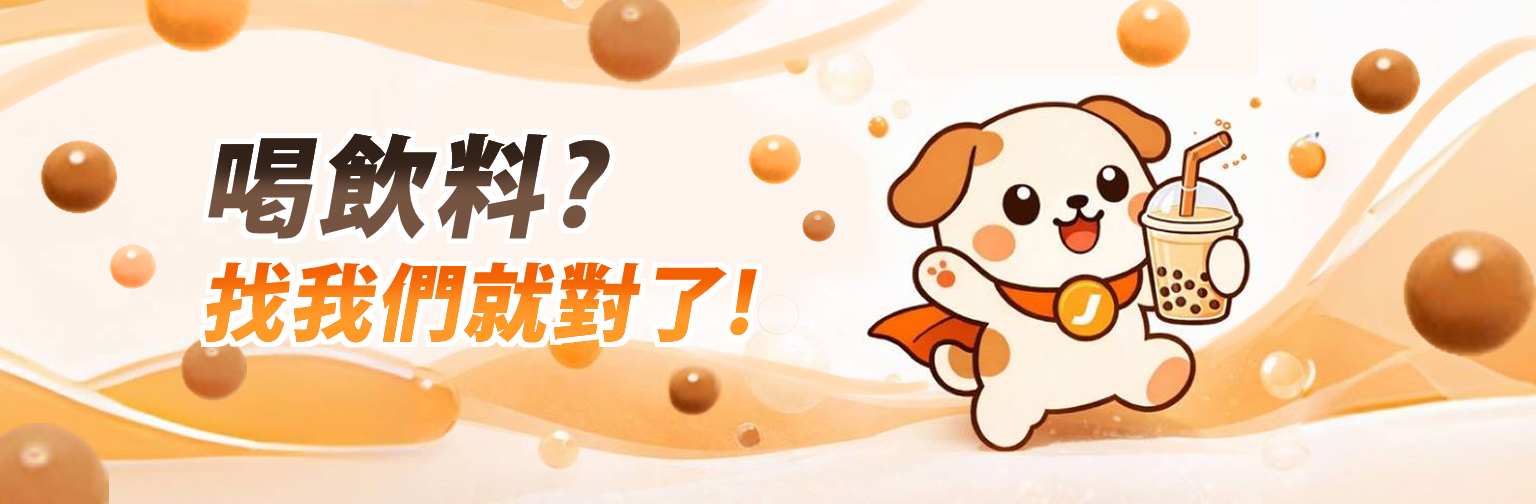
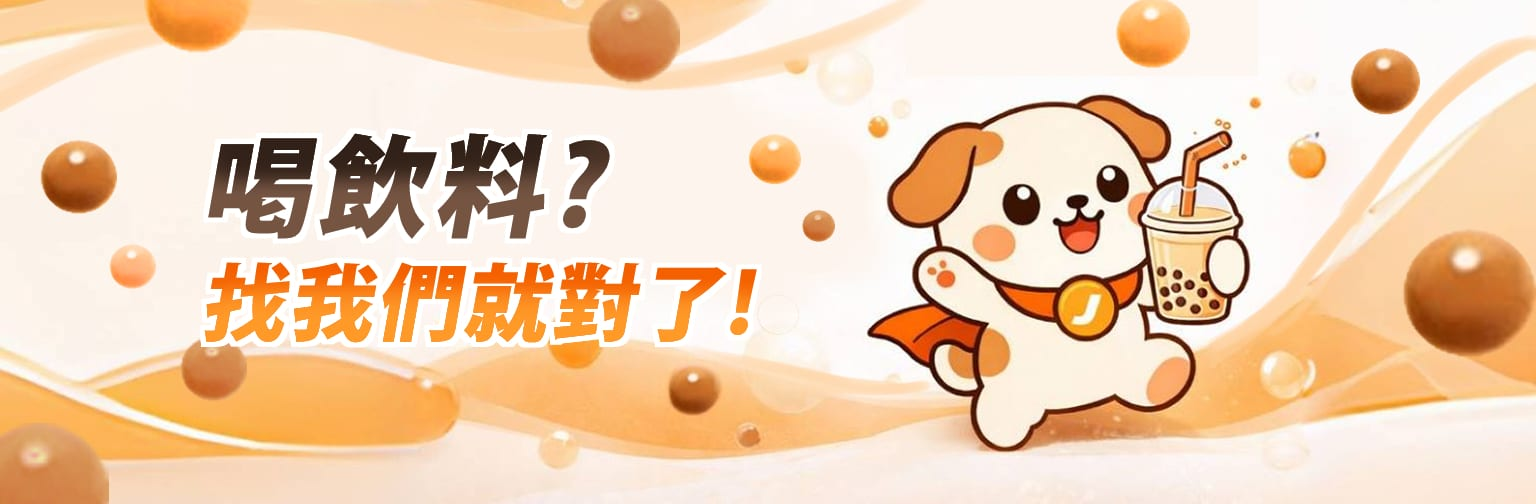
fix: 實際操作前端跑通三條主線，修掉六個只有點下去才會出現的問題
用 Playwright 操作真實 UI（點按鈕、選規格、兩個瀏覽器分飾團長與團員）
跑通點餐、轉盤抽券、揪團到結帳三條流程，過程中發現：

後端（open-in-view=false 的第八、九次）
  OrderService.getOrderByIdAndUserId 用 findById 取單，Controller 的
  buildOrderResponse 在交易外讀 store.getStoreName() → 下單成功後跳到的
  訂單完成頁固定 500。改用 @EntityGraph 的 findWithStoreAndInitiatorById。

  GroupOrderService.getGroupOrderByOrderId 把 entity 回給 Controller，
  由 Controller 在交易外才 convertToDTO → 揪團的訂單完成頁固定 500。
  新增 getGroupOrderDTOByOrderId，轉換留在交易內。

前端
  cart.js 在 IIFE 結尾就啟動同步，但 store.html / checkout.html 是先載
  cart.js 才載 nav-auth.js，第一次同步取不到 NavAuth.getApiUrl，退回相對
  路徑打到靜態伺服器（實測 404 http://127.0.0.1:5500/api/cart）。改為延到
  DOMContentLoaded，並修正兩頁的 script 順序。

  checkout.html 兩處 fetch('/api/...') 是相對路徑且沒帶 token，姓名電話與
  門市設定永遠讀不到；端點也錯（GET 是 /api/users/{id}，/profile 只有 PUT）。
  改走 NavAuth.fetchAPI。

  checkout.html 的 lastLocalManualActionTime 從未宣告，cartUpdated 的讀取
  先於任何賦值 → 每次背景同步都 ReferenceError，處理器整段中斷。

  cart_details.html 的 QRCode 在 try 內，外部 CDN 載不到就 throw，導致
  「建立揪團失敗」的錯誤提示——但揪團其實已經建好了。改為可選降級。

  store.html 的飲品圖 fallback 仍外連 via.placeholder.com，改用專案內建 SVG。

資產
  首頁三張輪播橫幅同解析度重壓（mozjpeg q82）：2,237 KB → 334 KB（-85%）。

驗證：三條 UI 流程全通、API 端對端 67 項全過、45 個 GET 端點 0 個 5xx、
20 個測試全過。

Claude-Session: https://claude.ai/code/session_01NowCPswupSUqPGgcQ77haN

diff --git a/frontend/Customer/checkout.html b/frontend/Customer/checkout.html
@@ -743,6 +743,14 @@
     </div>
 
     <script>
+        // 「同步鎖」的時間戳：手動改動購物車後 2 秒內，忽略背景同步推來的狀態，
+        // 免得伺服器的舊資料把剛改好的內容蓋掉。
+        // ⚠ 一定要在這裡宣告並給初始值。原本只有幾處賦值、沒有宣告，
+        // 而 cartUpdated 事件的讀取會先發生（使用者還沒手動改過任何品項時），
+        // 造成 ReferenceError: lastLocalManualActionTime is not defined，
+        // 整個事件處理器中斷、購物車不會重繪。
+        let lastLocalManualActionTime = 0;
+
         // Update saveEditBtn after DOM loads
         document.addEventListener('DOMContentLoaded', () => {
             const saveEditBtn = document.getElementById('save-edit-btn');
@@ -867,8 +875,9 @@
 
     <!-- Core Scripts -->
     <script src="js/cartHash.js"></script>
-    <script src="js/cart.js"></script>
+    <!-- nav-auth.js 要在 cart.js 之前：cart.js 的 requestApi 依賴 NavAuth.getApiUrl 組 API 位址 -->
     <script src="js/nav-auth.js"></script>
+    <script src="js/cart.js"></script>
     <script>
         // Global Variables
         let currentDeliveryMethod = 'delivery';
@@ -1683,8 +1692,12 @@
             try {
                 const userId = localStorage.getItem('JOIN_USER_ID');
                 if (userId) {
-                    fetch(`/api/users/${userId}/profile`)
-                        .then(r => r.ok ? r.json() : null)
+                    // ⚠ 兩個地方原本都寫錯：
+                    //  1. 用相對路徑 fetch('/api/...')，會打到靜態伺服器而不是 API
+                    //     （實測 404 http://127.0.0.1:5500/api/users/1/profile），姓名電話永遠讀不到。
+                    //  2. 端點也錯：GET 是 /api/users/{id}，/profile 只有 PUT。
+                    // NavAuth.fetchAPI 會一併處理 API base 與 Authorization header。
+                    NavAuth.fetchAPI(`/api/users/${userId}`)
                         .then(data => {
                             const user = data?.data || data || {};
                             const nicknameEl = document.getElementById('checkout-nickname');
@@ -1705,9 +1718,11 @@
 
             const storeIdForFetch = new URLSearchParams(window.location.search).get('id') || new URLSearchParams(window.location.search).get('storeId') || (initialCart.items[0]?.storeId);
             if (storeIdForFetch) {
-                fetch(`/api/stores/${storeIdForFetch}`)
-                    .then(r => r.ok ? r.json() : null)
-                    .then(store => {
+                // 同上：這裡原本也是相對路徑，門市設定永遠讀不到，
+                // currentStoreConfig 一直是 null，外送可用性只能用預設值判斷。
+                NavAuth.fetchAPI(`/api/stores/${storeIdForFetch}`)
+                    .then(resp => {
+                        const store = resp?.data || resp;
                         if (store) {
                             currentStoreConfig = store;
                             const nameEl = document.getElementById('checkout-store-name');

diff --git a/frontend/Customer/js/cart.js b/frontend/Customer/js/cart.js
@@ -536,9 +536,11 @@
             if (isLoggedIn()) {
                 const sid = toNumber(storeId, 0);
                 const url = sid ? `/api/cart?storeId=${sid}` : '/api/cart';
+                // 清空後不必再 syncFromServer：本地已經清乾淨，再拉一次只是多一趟請求，
+                // 而且下單成功後畫面會立刻跳到訂單完成頁，這趟請求必定被中斷，
+                // 於是每次下單都在 console 留下一則 "Failed to fetch" 的假錯誤。
                 void requestApi(url, { method: 'DELETE' })
-                    .then(() => syncFromServer({ silent: true }))
-                    .catch((error) => console.error('clearCart sync error:', error));
+                    .catch((error) => console.debug('clearCart: 伺服器端清空未完成（多半是跳頁中斷）', error));
             }
         },
 
@@ -623,5 +625,15 @@
         }
     });
 
-    Cart.startRealtimeSync();
+    // ⚠ 不要改回在載入當下就直接呼叫 startRealtimeSync()。
+    // requestApi() 需要 nav-auth.js 提供的 NavAuth.getApiUrl 才能組出正確的 API 位址；
+    // store.html / checkout.html 是先載 cart.js 再載 nav-auth.js，立即同步會因為 NavAuth
+    // 還不存在而退回相對路徑，變成打靜態伺服器（實測 404 http://127.0.0.1:5500/api/cart），
+    // 第一次同步必定失敗、購物車要等 3 秒後的輪詢才會補正。
+    // 延到 DOMContentLoaded，此時文件內的同步 script 都已執行完畢，與載入順序無關。
+    if (document.readyState === 'loading') {
+        document.addEventListener('DOMContentLoaded', () => Cart.startRealtimeSync());
+    } else {
+        Cart.startRealtimeSync();
+    }
 })();

diff --git a/frontend/Customer/store.html b/frontend/Customer/store.html
@@ -522,8 +522,9 @@
   </div>
 
   <!-- Common Utilities -->
-  <script src="js/cart.js"></script>
+  <!-- nav-auth.js 要在 cart.js 之前：cart.js 的 requestApi 依賴 NavAuth.getApiUrl 組 API 位址 -->
   <script src="js/nav-auth.js"></script>
+  <script src="js/cart.js"></script>
   <!-- Store Specific Logic -->
   <script>
     document.addEventListener('DOMContentLoaded', async () => {
@@ -986,7 +987,9 @@
 
         const imgUrl = (product.imageUrl || product.logoUrl) ?
           ((product.imageUrl || product.logoUrl).startsWith('http') ? (product.imageUrl || product.logoUrl) : '/images/' + (product.imageUrl || product.logoUrl)) :
-          'https://via.placeholder.com/400x300?text=' + product.name;
+          // 用專案內建的 SVG，不要外連圖床：離線或圖床擋掉時客製化視窗會開天窗，
+          // 其餘頁面的 Unsplash 連結先前已一併換成本地 SVG，這支是漏網的。
+          'images/drink-placeholder.svg';
         
         const optimizedModalImg = optimizeImageUrl(imgUrl, 600, 400);
         if (modalImg) {

diff --git a/frontend/Customer/cart_details.html b/frontend/Customer/cart_details.html
@@ -1056,7 +1056,16 @@
         linkInput.value = shareLink;
 
         qrcodeContainer.innerHTML = '';
-        new QRCode(qrcodeContainer, { text: shareLink, width: 180, height: 180 });
+        // QRCode 是外部 CDN 載入的，載不到時不能讓整個流程當掉：
+        // 這段在 handleStartGroup 的 try 裡面，一 throw 就會跳出「建立揪團失敗」，
+        // 但揪團其實已經在後端建好了——使用者被告知失敗、實際成功，最糟的一種錯誤訊息。
+        // 沒有 QR 也不影響分享，連結本身就夠用。
+        if (typeof QRCode !== 'undefined') {
+          new QRCode(qrcodeContainer, { text: shareLink, width: 180, height: 180 });
+        } else {
+          qrcodeContainer.innerHTML =
+            '<p class="text-xs text-gray-400 text-center px-4 py-8">QR Code 元件載入失敗，請直接複製上方連結分享</p>';
+        }
 
         copyBtn.onclick = () => {
           linkInput.select();

diff --git a/src/main/java/com/example/demo/repository/GroupOrderRepository.java b/src/main/java/com/example/demo/repository/GroupOrderRepository.java
@@ -55,6 +55,17 @@ public interface GroupOrderRepository extends JpaRepository<GroupOrder, Long> {
        @EntityGraph(attributePaths = {"initiator", "store", "store.brand"})
        Optional<GroupOrder> findByShareToken(String shareToken);
 
+       /**
+        * 取單並一併載入 store 與 initiator。
+        *
+        * ⚠ 用途是給「交易外還要讀這兩個關聯」的呼叫端（例如 OrderController.buildOrderResponse
+        * 會讀 store.getStoreName()／initiator.getName()）。open-in-view=false 之下，
+        * 單純的 findById 回來的是 proxy，交易一結束再讀就是 LazyInitializationException，
+        * 實測讓「下單完成頁」GET /api/orders/{id}/v2 固定 500。
+        */
+       @EntityGraph(attributePaths = {"store", "initiator"})
+       Optional<GroupOrder> findWithStoreAndInitiatorById(Long id);
+
         // 查詢特定類別的訂單 (如 SOLO)
        Optional<GroupOrder> findByInitiatorIdAndStoreIdAndTypeAndStatusIn(Long initiatorId, Long storeId,
                      String type, List<String> statuses);

diff --git a/src/main/java/com/example/demo/service/OrderService.java b/src/main/java/com/example/demo/service/OrderService.java
@@ -75,12 +75,14 @@ public class OrderService {
         return groupOrderRepository.findVisibleOrdersForUserByStatuses(userId, statuses, pageable);
     }
 
+    // 這兩支的回傳值會被 Controller 在交易外拿去讀 store／initiator，
+    // 所以一律走有 @EntityGraph 的查詢把關聯一起載入（見 repository 內的說明）。
     public GroupOrder getOrderById(Long orderId) {
-        return groupOrderRepository.findById(orderId).orElse(null);
+        return groupOrderRepository.findWithStoreAndInitiatorById(orderId).orElse(null);
     }
 
     public GroupOrder getOrderByIdAndUserId(Long orderId, Long userId) {
-        return groupOrderRepository.findById(orderId)
+        return groupOrderRepository.findWithStoreAndInitiatorById(orderId)
                 .filter(o -> o.getInitiator() != null && o.getInitiator().getId().equals(userId))
                 .orElse(null);
     }

diff --git a/src/main/java/com/example/demo/service/GroupOrderService.java b/src/main/java/com/example/demo/service/GroupOrderService.java
@@ -853,6 +853,19 @@ public class GroupOrderService {
     }
 
     /**
+     * 依訂單 ID 取揪團 DTO（訂單完成頁會打）。
+     *
+     * ⚠ 轉 DTO 一定要留在這個交易裡。原本是 Controller 拿 Optional&lt;GroupOrder&gt; 出去、
+     * 在交易外才呼叫 convertToDTO，而 convertToDTO 會讀 initiator／store，
+     * open-in-view=false 之下必定 LazyInitializationException——實測下單後的
+     * 訂單完成頁固定看到 500。
+     */
+    @org.springframework.transaction.annotation.Transactional(readOnly = true)
+    public Optional<GroupOrderDTO> getGroupOrderDTOByOrderId(Long realOrderId) {
+        return groupOrderRepository.findById(realOrderId).map(this::convertToDTO);
+    }
+
+    /**
      * 團員補款給團長。
      *
      * 修正說明：原本要求狀態為 CLOSED（系統從未設定此狀態），

diff --git a/src/main/java/com/example/demo/controller/GroupOrderController.java b/src/main/java/com/example/demo/controller/GroupOrderController.java
@@ -316,8 +316,9 @@ public class GroupOrderController {
     @Operation(summary = "依據訂單 ID 取得揪團詳情", description = "供訂單確認頁面使用。")
     @GetMapping("/api/group-orders/by-order/{orderId}")
     public Result getGroupByOrderId(@PathVariable Long orderId) {
-        return groupOrderService.getGroupOrderByOrderId(orderId)
-                .map(go -> Result.success(groupOrderService.convertToDTO(go)))
+        // 轉 DTO 必須在 service 的交易內完成，不可把 entity 帶出來再轉（見 service 內說明）
+        return groupOrderService.getGroupOrderDTOByOrderId(orderId)
+                .map(Result::success)
                 .orElse(Result.error("找不到對應的揪團資訊"));
     }
 

diff --git a/CLAUDE.md b/CLAUDE.md
@@ -230,9 +230,22 @@ SUBMITTED 進入 PREPARING。
    proxy 時 session 早已關閉，**必定 500**。這種加 `@Transactional` 沒用（序列化發生在交易之後），
    要在交易內就轉成純 Map。兩支都已改走 `StoreService.toMap()`。
 
+3. **Controller 拿 entity 出來自己組 Map** — `OrderController.buildOrderResponse` 讀
+   `order.getStore().getStoreName()`，而 Controller 不在交易內。這種要嘛讓查詢
+   `@EntityGraph` 把關聯一起載入（`findWithStoreAndInitiatorById`），要嘛整段移進 Service。
+4. **Service 回傳 entity、Controller 才轉 DTO** — `getGroupOrderByOrderId` 回
+   `Optional<GroupOrder>`，Controller 拿到後才呼叫 `convertToDTO`，此時交易早就結束。
+   已改成 `getGroupOrderDTOByOrderId`，轉換留在交易內。
+
 **不要從 Controller 直接回傳 JPA entity。** 除了這個問題，entity 還會把整個物件圖攤開來，
 且欄位一旦新增就自動外流（目前靠 `passwordHash` 上的 `@JsonProperty(WRITE_ONLY)` 擋著，
 那是最後一道防線，不該是唯一一道）。
+
+**同理，也不要把 entity 當成 Service 的回傳值再到外面轉換**——轉換寫在哪裡，
+就決定了它有沒有交易可用。
+
+> 這顆雷至今踩過九次，其中「下單完成頁」與「揪團成員清單」兩處是實際點過畫面才發現的：
+> 端點單獨 curl 會過（資料剛好沒有那個關聯），要照使用者的路徑走完整流程才會現形。
 
 這類錯誤**單元測試抓不到、要實際打端點才會現形**。改完動到序列化或關聯的程式碼後，
 跑一次涵蓋所有 GET 端點的普掃（起服務後逐一 curl，看有沒有 5xx 或 body `code=500`）比較實在。

diff --git a/README.md b/README.md
@@ -149,6 +149,20 @@ node scripts/e2e-verify.js
 **S-6 與另外三個固定 500 都是跑這支時發現的**——它們有個共同點：單元測試看不到，
 要真的把服務跑起來、照著使用者的路徑走一遍才會現形。
 
+再往下一層，用 Playwright 實際操作前端（點按鈕、選規格、兩個瀏覽器分飾團長與團員）
+跑通三條主線後，又抓到六個只有真的點下去才會出現的問題：
+
+| 問題 | 症狀 |
+|------|------|
+| `OrderService.getOrderByIdAndUserId` 用 `findById` 取單 | 下單成功後跳到訂單完成頁，**該頁固定 500** |
+| `GroupOrderService` 把 entity 回給 Controller 才轉 DTO | 揪團的訂單完成頁固定 500 |
+| `cart.js` 在 `nav-auth.js` 之前就發第一次同步 | API 位址組錯，打到靜態伺服器（404），購物車要等 3 秒輪詢才補正 |
+| `checkout.html` 兩處寫成相對路徑 `fetch('/api/...')` | 結帳頁的姓名／電話與門市設定**永遠讀不到** |
+| `lastLocalManualActionTime` 從未宣告 | 結帳頁每次背景同步都丟 ReferenceError，處理器中斷 |
+| QR Code 元件載入失敗會讓整個 try 中斷 | 揪團**其實已建立成功**，畫面卻顯示「建立揪團失敗」 |
+
+順手把首頁三張輪播橫幅重新壓縮（同解析度、mozjpeg q82）：**2,237 KB → 334 KB，減少 85%**。
+
 ---
 
 ## 效能
